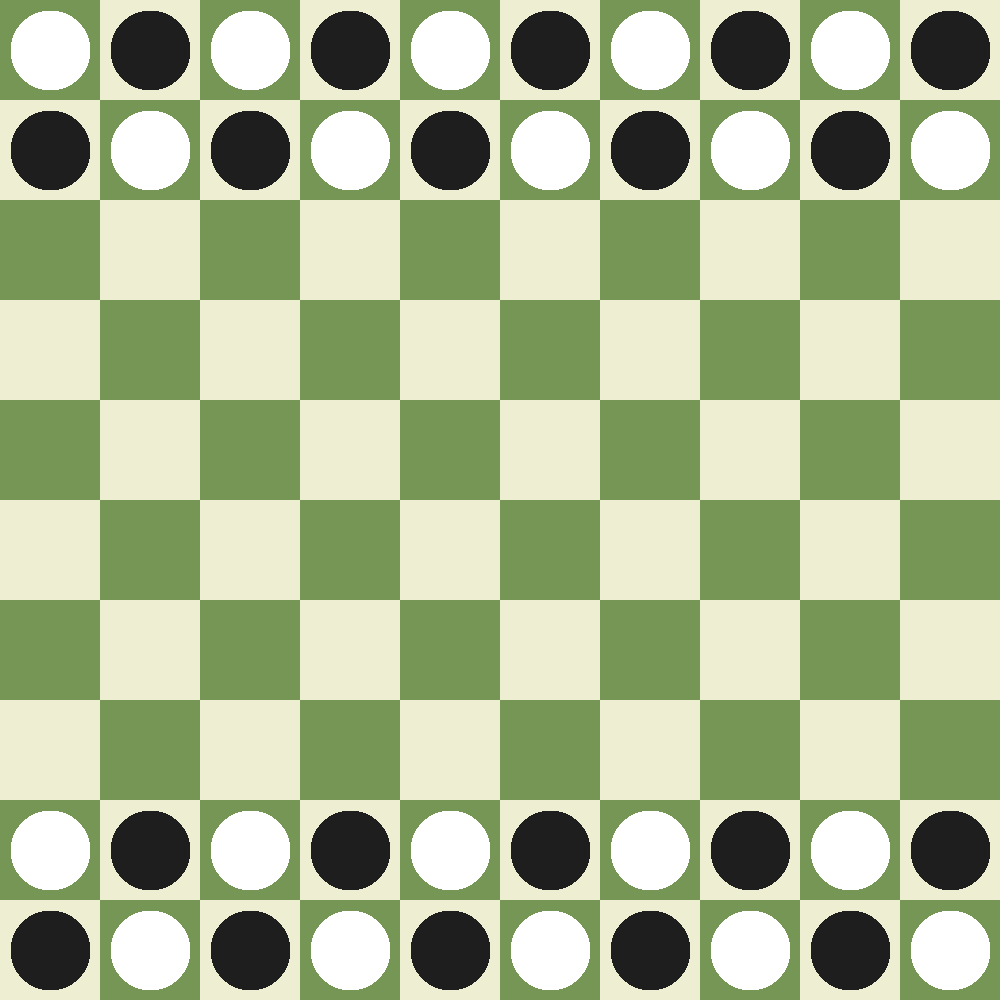
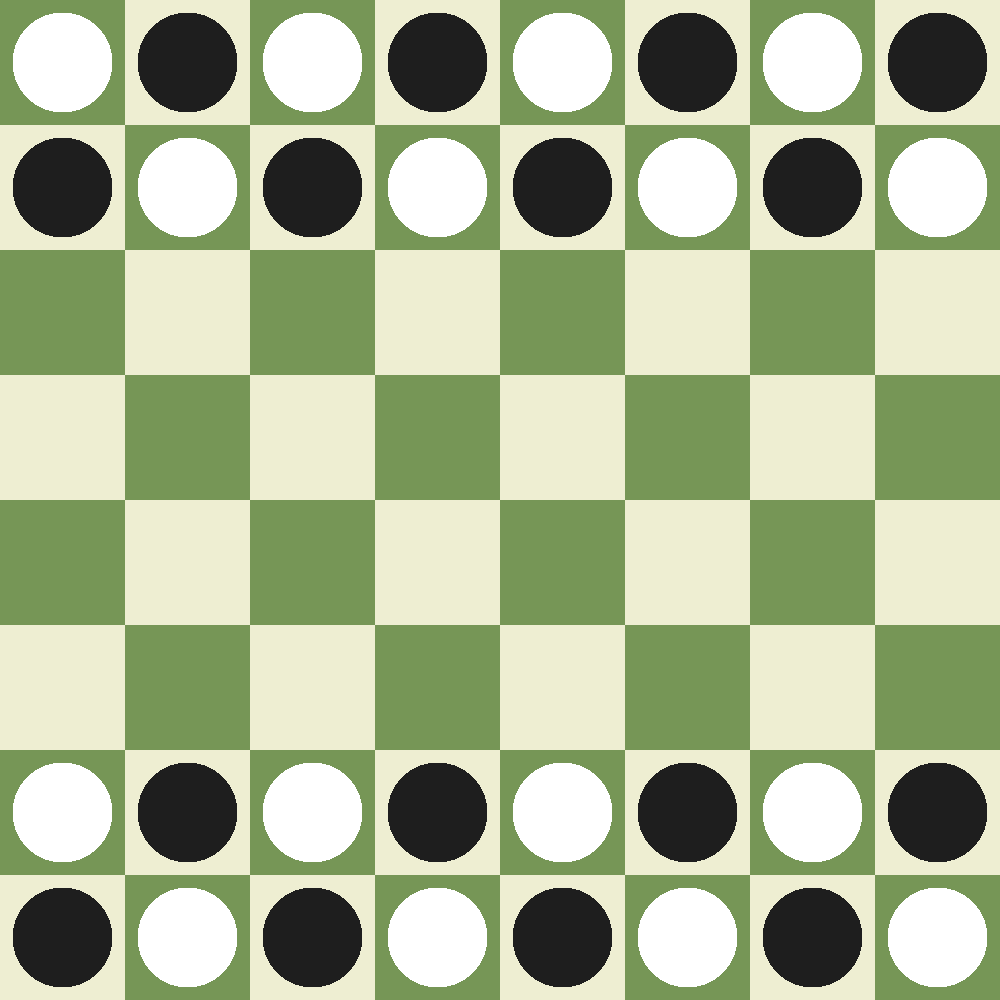
Changed Example!

diff --git a/src/main.rs b/src/main.rs
@@ -18,8 +18,8 @@ const CONFIG: Config = Config {
 fn main() -> Result<(), Box<dyn Error>> {
     let mut image_buffer = Buffer::new().config(CONFIG).build()?;
 
-    let row = 10;
-    let col = 10;
+    let row = 8;
+    let col = 8;
     let rheight = HEIGHT / row;
     let rwidth = WIDTH / col;
     let mut color: Rgb<u8>;
@@ -38,8 +38,8 @@ fn main() -> Result<(), Box<dyn Error>> {
                 piece = Rgb([30, 30, 30]);
             }
             image_buffer.draw_rect(x * rwidth, y * rheight, rwidth, rheight, color);
-            if y < 2 || y > 7 {
-                image_buffer.draw_circle(x * rwidth + 50, y * rheight + 50, 40, piece);
+            if y < 2 || y > 5 {
+                image_buffer.draw_circle(x * rwidth + 62, y * rheight + 62, 50, piece);
             }
         }
     }
